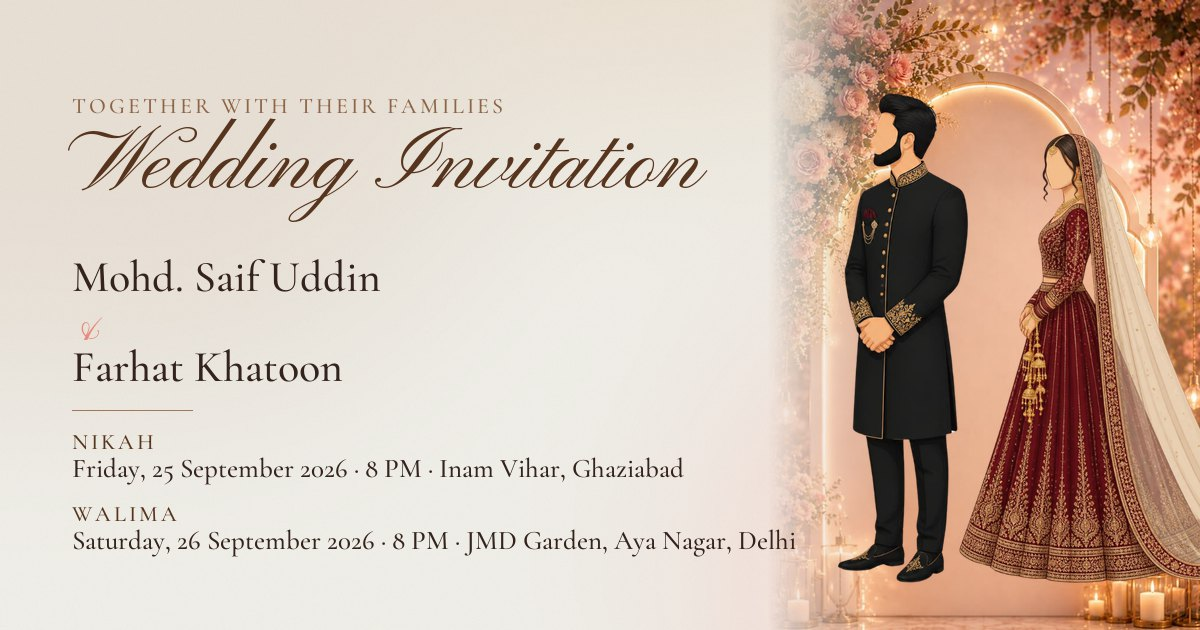
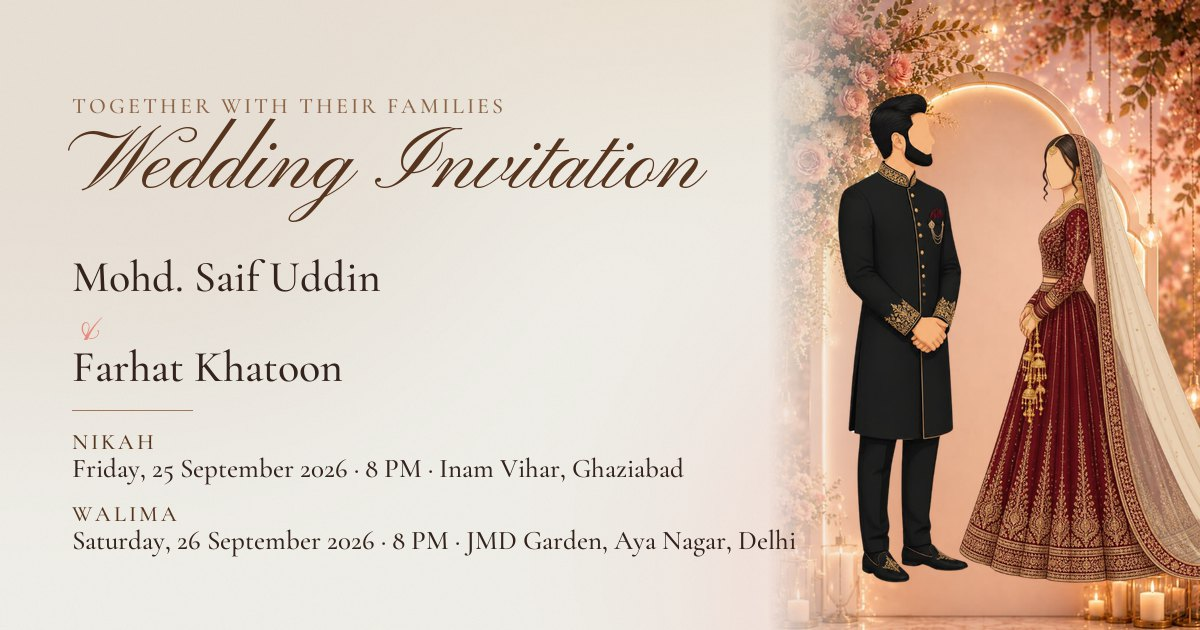
Groom faces the bride; bride shifted right in the invitation scenes
The new groom artwork faces right natively, so mark it so in content/art.ts
(this un-mirrors him in the date and meme scenes, the home couple card and
the story page). Move the bride further right to make room for her wider
lehenga and dupatta.

Changed region(s): [[0.6783, 0.4222, 0.8017, 0.9349], [0.6783, 0.1508, 0.8325, 0.4222]]

diff --git a/components/home/InvitationStage.tsx b/components/home/InvitationStage.tsx
@@ -262,9 +262,9 @@ export function InvitationStage() {
           animate={
             groomOn
               ? meme
-                ? { x: "10%", opacity: 1, scaleX: groomRight, height: "46%" }
+                ? { x: "6%", opacity: 1, scaleX: groomRight, height: "46%" }
                 : meet
-                  ? { x: "22%", opacity: 1, scaleX: groomRight, height: "50%" }
+                  ? { x: "14%", opacity: 1, scaleX: groomRight, height: "50%" }
                   : { x: "6%", opacity: 1, scaleX: 1, height: "64%" }
               : { x: "-120%", opacity: 0, scaleX: 1, height: "64%" }
           }
@@ -281,9 +281,9 @@ export function InvitationStage() {
           animate={
             brideOn
               ? meme
-                ? { x: "-4%", opacity: 1, scaleX: brideLeft, height: `${46 * bs}%` }
+                ? { x: "8%", opacity: 1, scaleX: brideLeft, height: `${46 * bs}%` }
                 : meet
-                  ? { x: "-14%", opacity: 1, scaleX: brideLeft, height: `${50 * bs}%` }
+                  ? { x: "4%", opacity: 1, scaleX: brideLeft, height: `${50 * bs}%` }
                   : { x: "-4%", opacity: 1, scaleX: 1, height: `${64 * bs}%` }
               : { x: "120%", opacity: 0, scaleX: 1, height: `${64 * bs}%` }
           }

diff --git a/content/art.ts b/content/art.ts
@@ -26,7 +26,7 @@ export const art = {
     src: "/art/groom1.png",
     width: 214,
     height: 749,
-    facing: "left",
+    facing: "right",
     alt: "Illustrated groom",
     scale: 1,
   } satisfies Cutout as Cutout,
